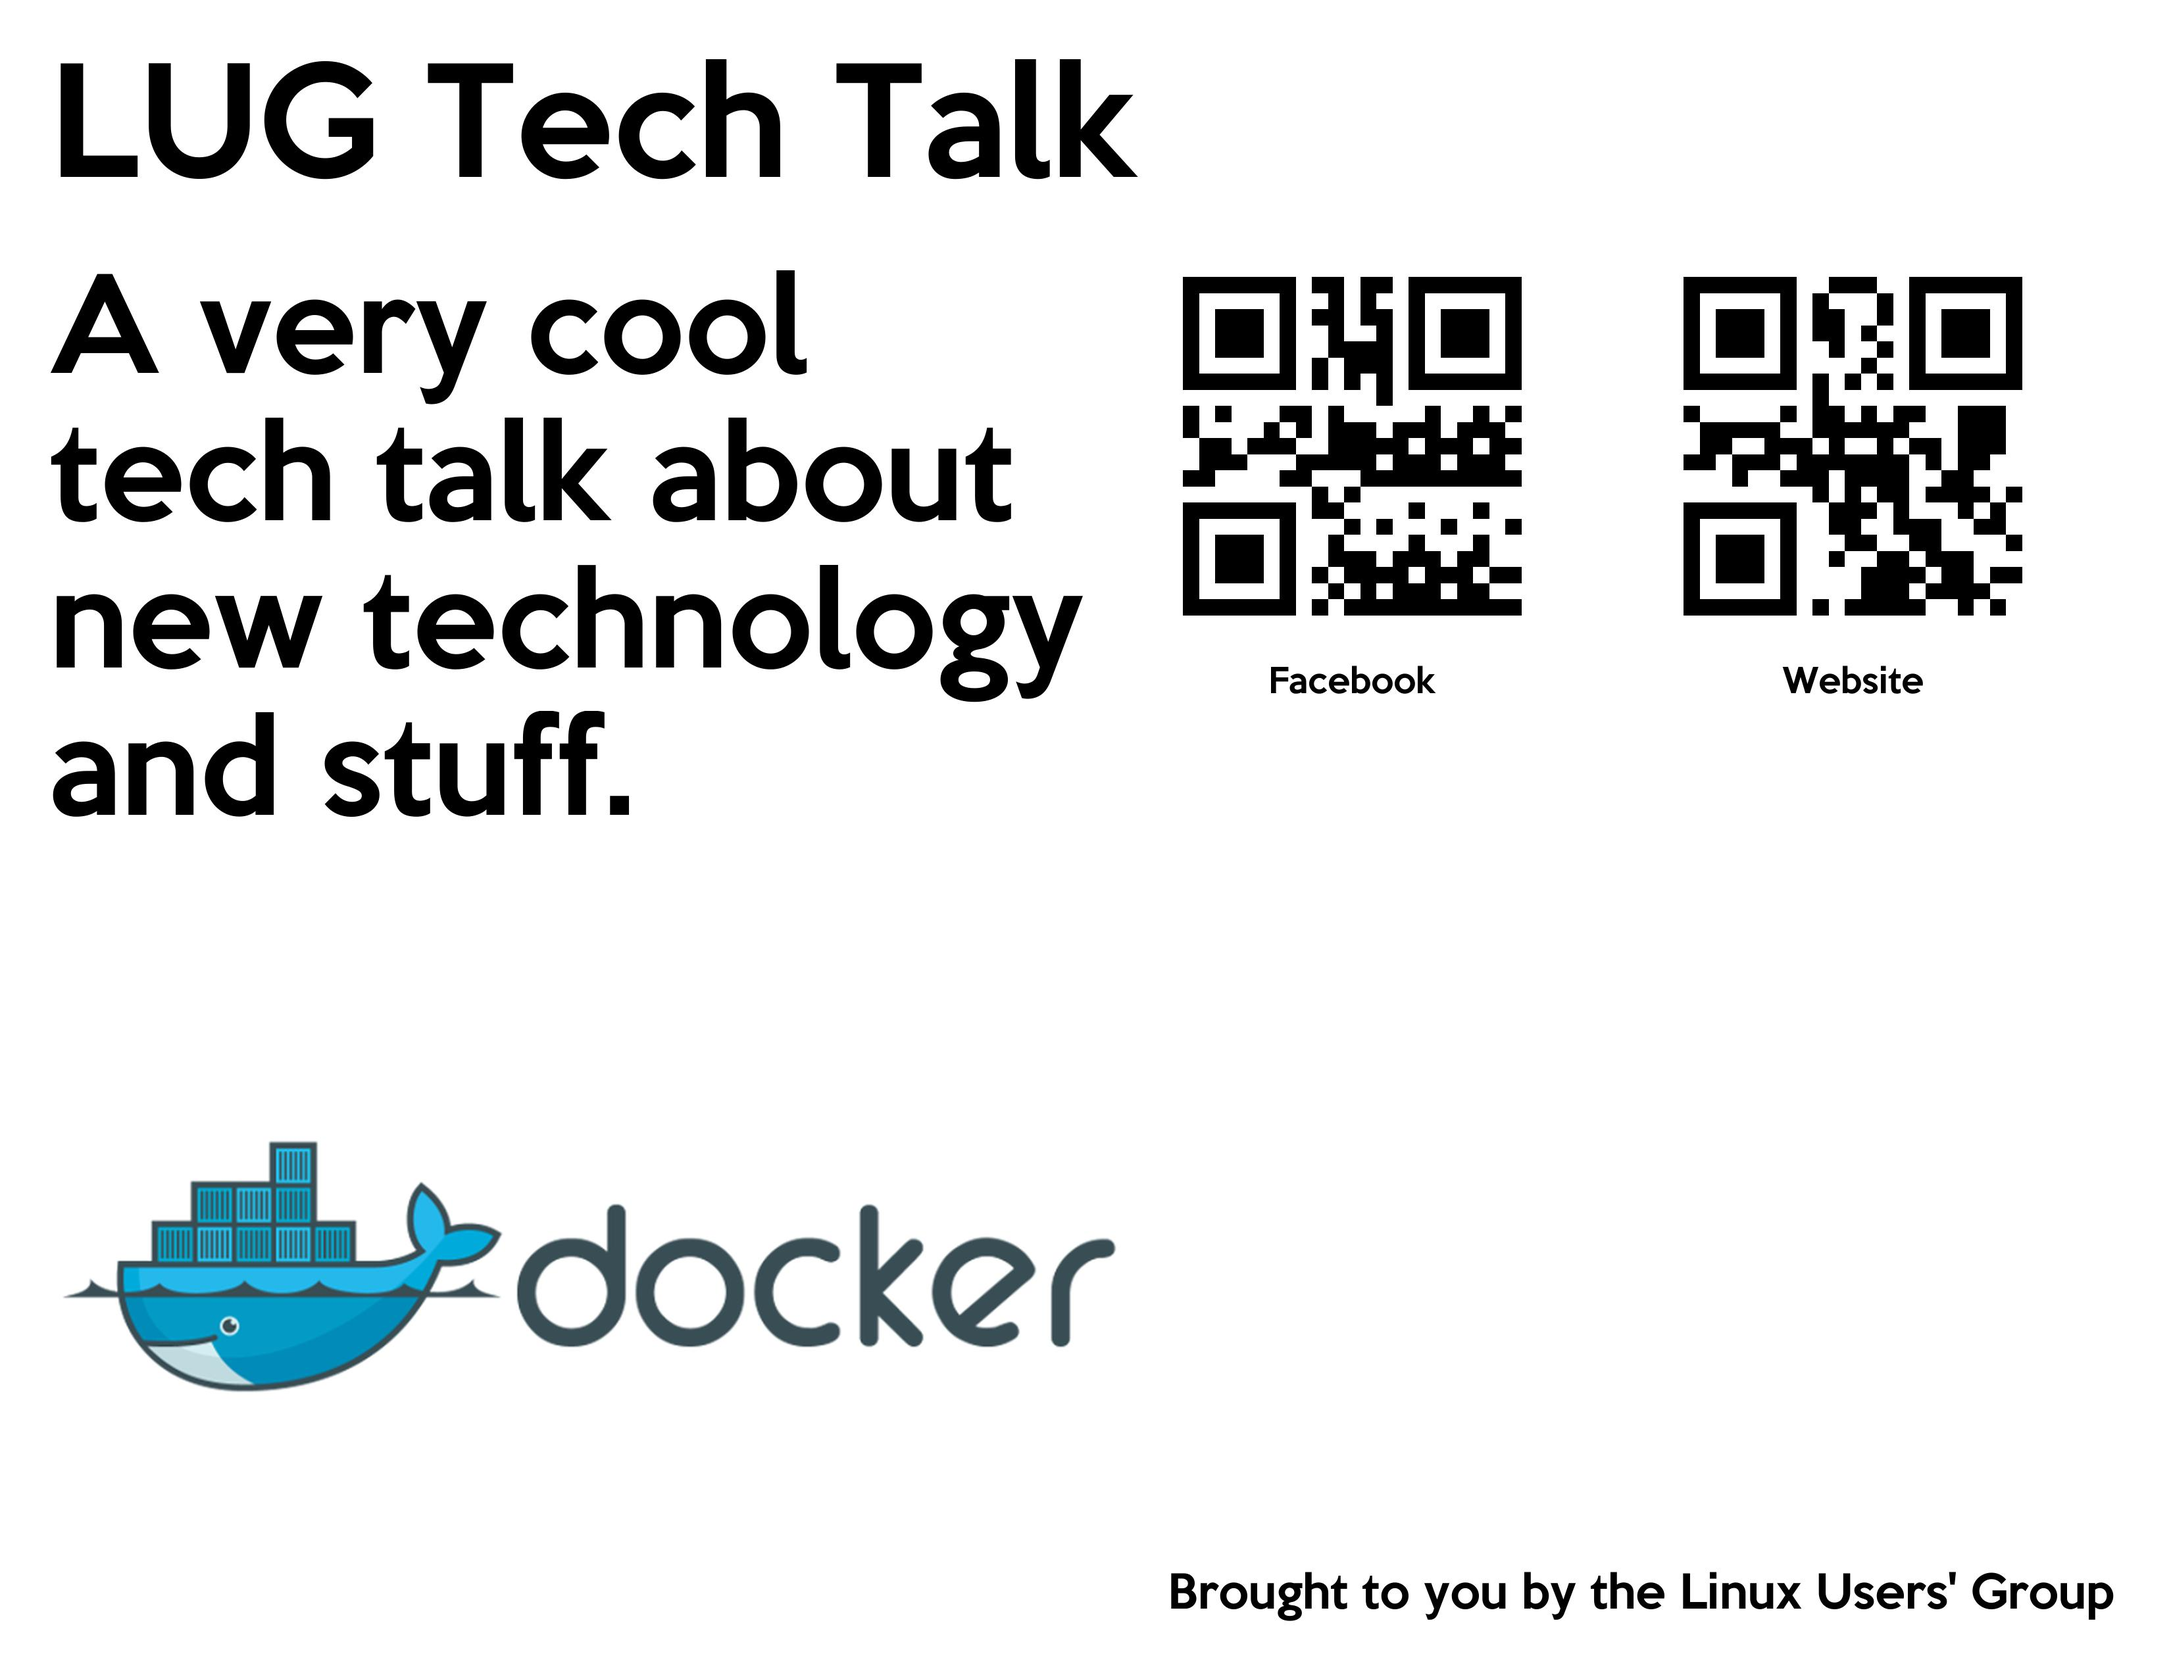
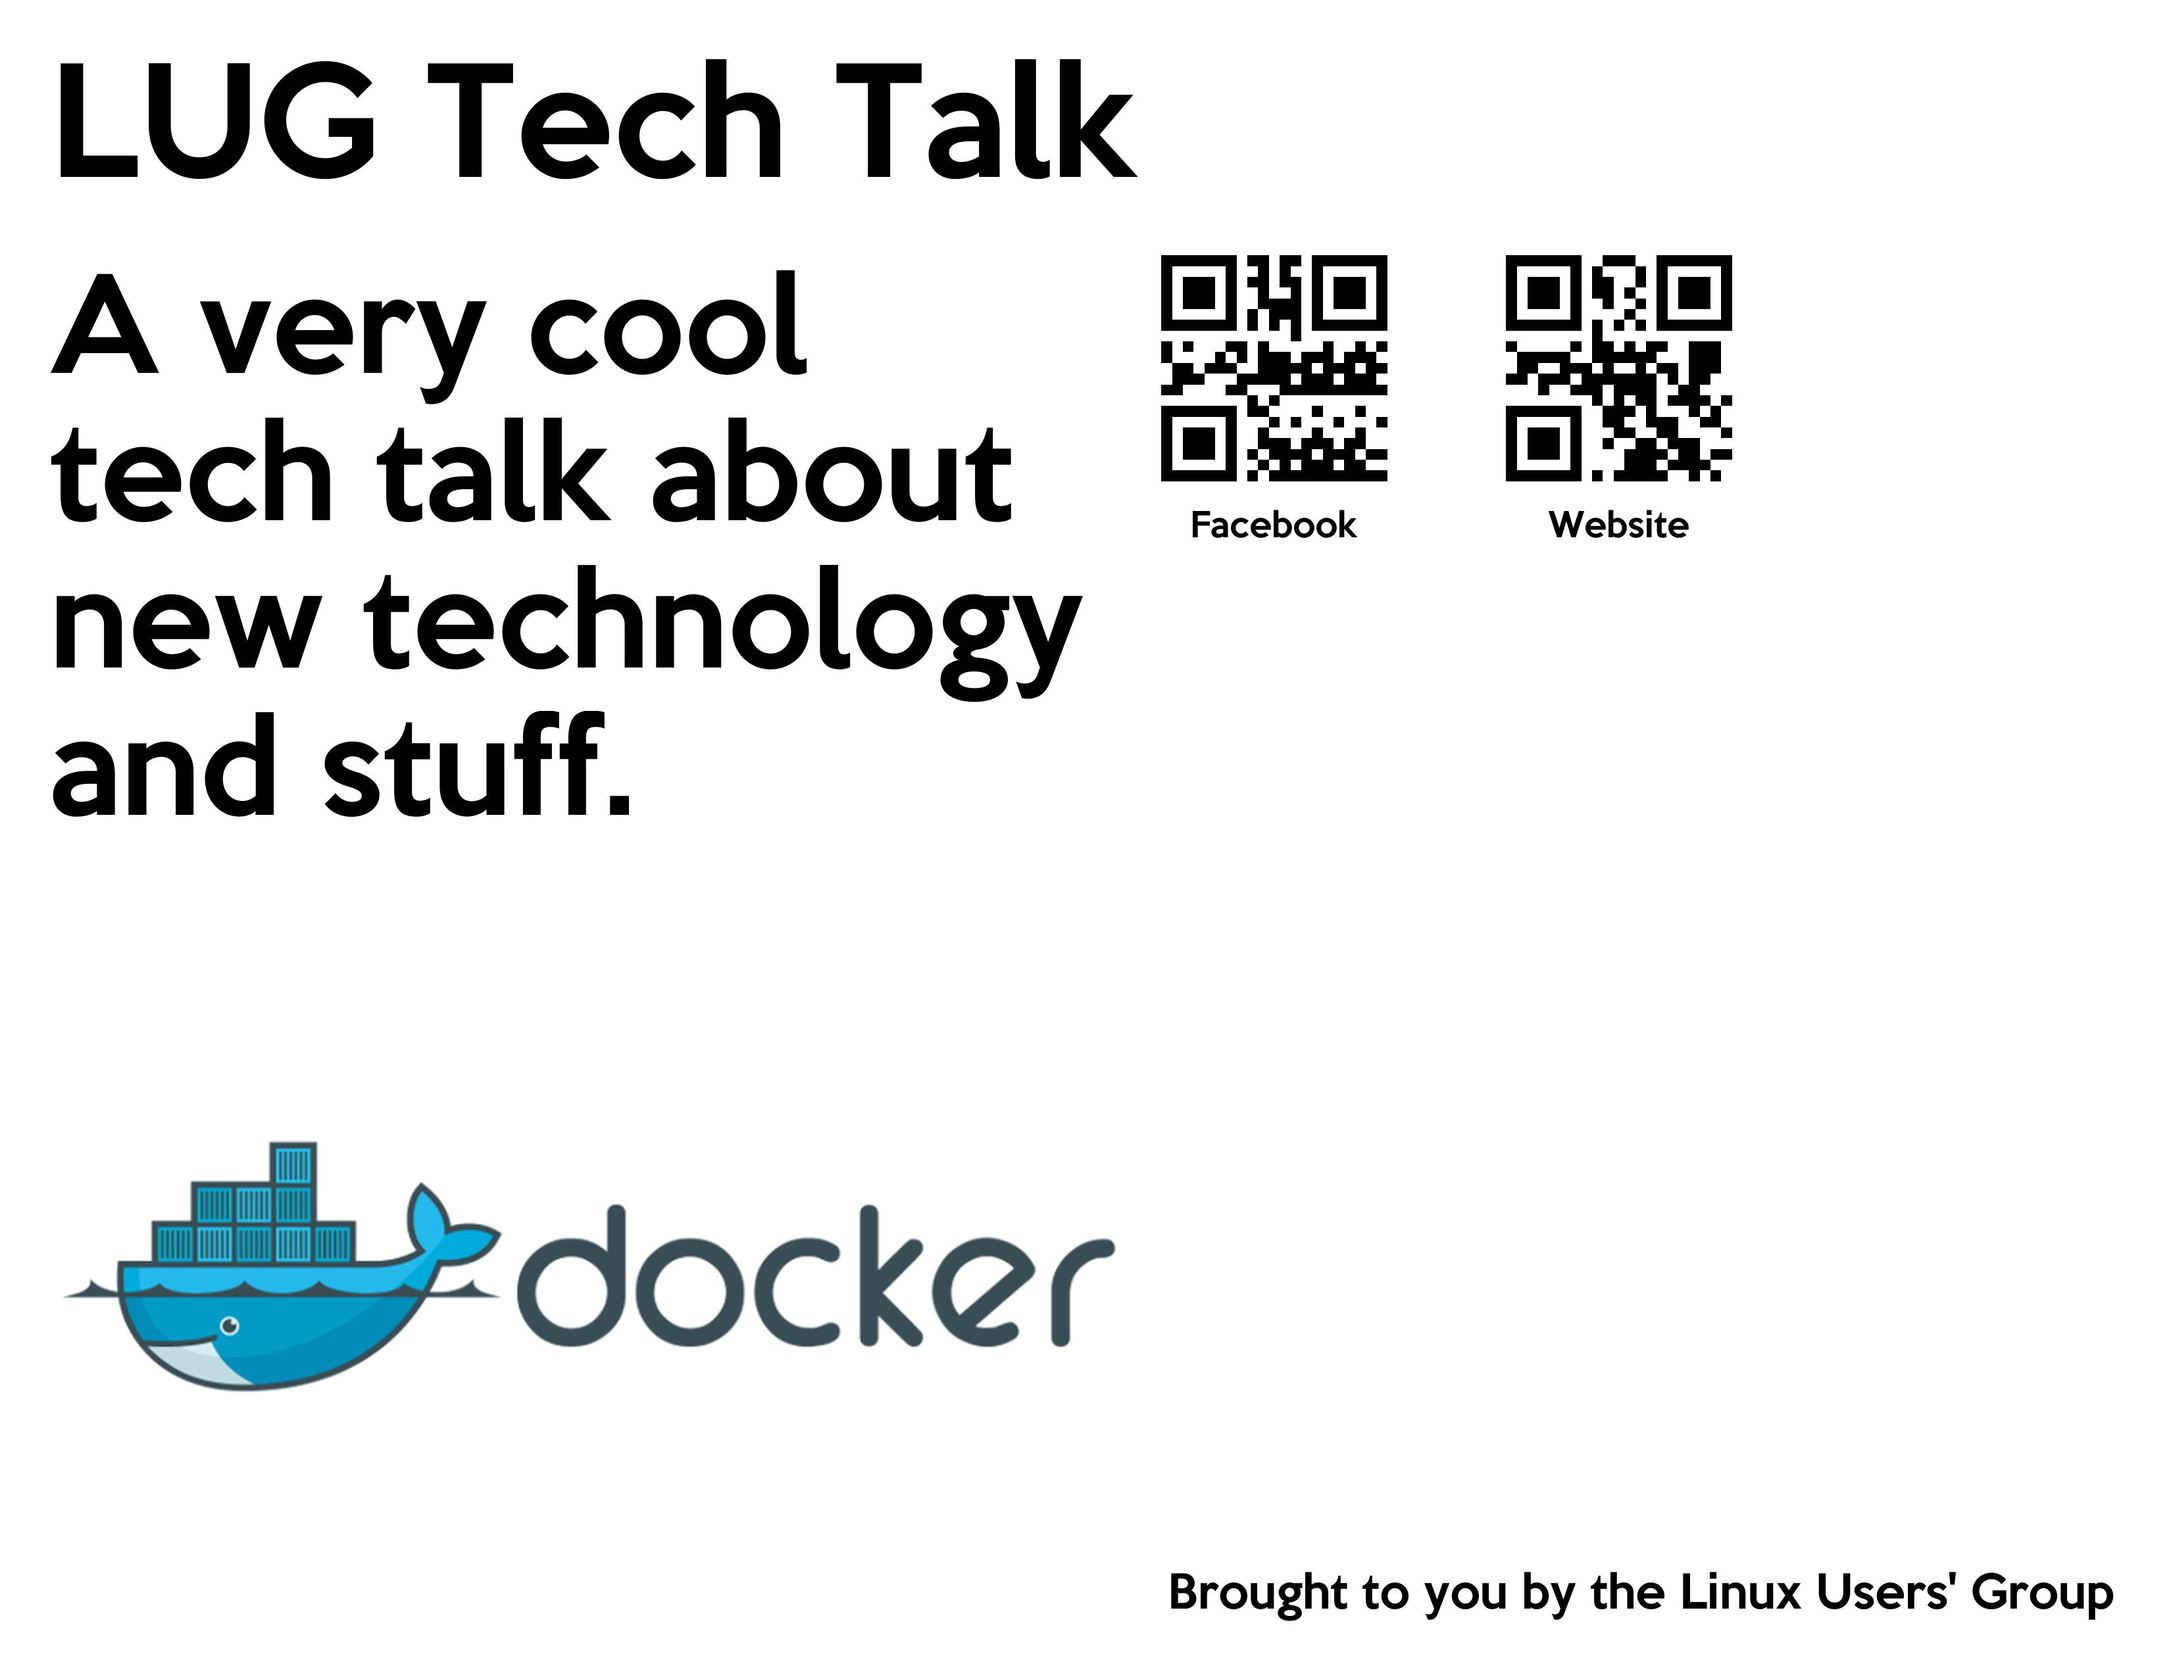
added Dockerfile

Changed region(s): [[0.5306, 0.1549, 0.9364, 0.3718], [0.8115, 0.4027, 0.8739, 0.4337], [0.593, 0.4027, 0.6555, 0.4337]]

diff --git a/main.py b/main.py
@@ -168,7 +168,7 @@ def template1(background, results):
     # Draw qr codes
     currentQr = 0
     if(numberOfQRCodes != 0):
-        qrHeight = math.floor((topOfFeaturedImage - internalMargin) / (numberOfQRCodes))
+        qrHeight = math.floor((topOfFeaturedImage - internalMargin) / (numberOfQRCodes + 1))
     
     qrPositions = [(math.floor(background.size[0] * 0.5) + internalMargin, bottomOfTitle + internalMargin),
                 (math.floor(background.size[0] * 0.5) + internalMargin + qrHeight + internalMargin, bottomOfTitle + internalMargin),
@@ -214,6 +214,7 @@ def template1(background, results):
         if(results.time != None):
             dateAndTime = build_logistics(results.date + ", " + results.time, results.location, results.pizza)
         draw_multiline(draw, (sideOfFeaturedImage + internalMargin, topOfFeaturedImage, rightMargin, bottomMargin), "keep-calm.ttf", dateAndTime, numlines=3)
+        print("Drew date and time")
         
     background.save("static/output.jpg")
     print("Done")
